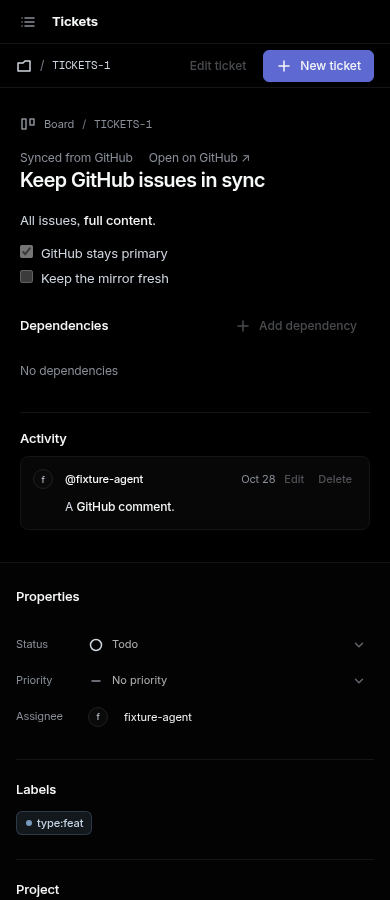
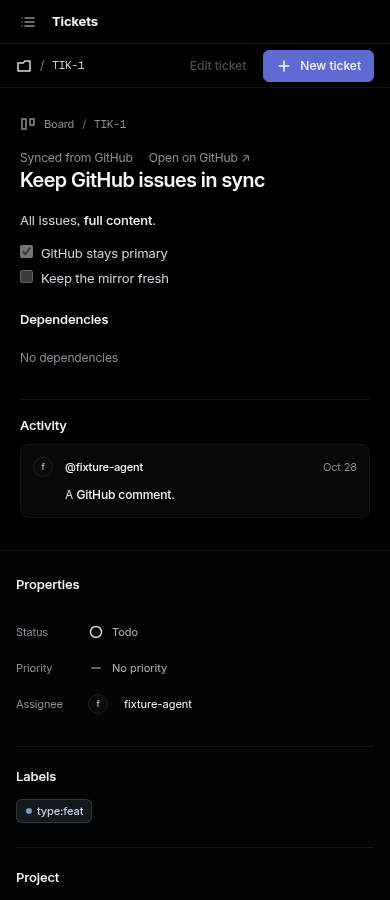
fix(mirror): use existing TIK project key and hide read-only controls

diff --git a/crates/web/style.css b/crates/web/style.css
@@ -472,3 +472,6 @@ time { color: var(--text-muted); font-size: var(--text-xs); }
 .login-page .login-error { display: block; color: var(--danger); min-height: 20px; margin: 0; font-size: var(--text-sm); }
 
 .github-sync { display: flex; flex-wrap: wrap; gap: 8px 16px; font-size: 12px; }
+/* Read-only (mirrored) properties: no chevron or hover affordance. */
+.property select:disabled, .card-status select:disabled { background-image: none; cursor: default; }
+.property select:disabled:hover, .card-status select:disabled:hover { background-color: transparent; }

diff --git a/crates/web/src/pages/api_detail.rs b/crates/web/src/pages/api_detail.rs
@@ -168,7 +168,7 @@ fn DetailPage(id: i64) -> impl IntoView {
             <article class="ticket-detail"><div class="detail-overline"><a href="/" class="back-link"><Icon name="board"/>"Board"</a><span class="breadcrumb-slash">"/"</span><span class="mono">{move||state.ticket.get().map(|t|t.key)}</span></div>
             <Show when=move||state.mirrored()><p class="muted github-sync">"Synced from GitHub"{move||state.ticket.get().and_then(|t|t.external_url).map(|url|view!{<a class="subtle-link" href=url target="_blank" rel="noopener">"Open on GitHub ↗"</a>})}</p></Show>
             <h1>{move||state.ticket.get().map(|t|t.title)}</h1><div class="detail-description">{move||state.ticket.get().map(|t|view!{<Markdown source=t.body/>})}</div>
-            <section class="dependencies" aria-label="Dependencies"><div class="section-heading"><h2>"Dependencies"</h2><button class="button button-ghost" disabled=move||state.mirrored() || state.busy.get() on:click=move|_|dependency.set(true)><Icon name="plus"/>"Add dependency"</button></div>
+            <section class="dependencies" aria-label="Dependencies"><div class="section-heading"><h2>"Dependencies"</h2><Show when=move||!state.mirrored()><button class="button button-ghost" disabled=move||state.mirrored() || state.busy.get() on:click=move|_|dependency.set(true)><Icon name="plus"/>"Add dependency"</button></Show></div>
             {move||state.ticket.get().map(|t|{let empty=t.blocks.is_empty() && t.blocked_by.is_empty();view!{ {empty.then(||view!{<p class="muted dependency-empty">"No dependencies"</p>})}
                 {t.blocked_by.into_iter().map(|related|view!{<DependencyRow related incoming=true/>}).collect_view()}{t.blocks.into_iter().map(|related|view!{<DependencyRow related incoming=false/>}).collect_view()}
             }})}</section>
@@ -206,7 +206,7 @@ fn DependencyRow(related: i64, incoming: bool) -> impl IntoView {
     };
     view! {<div class="dependency-row"><span class="dependency-kind"><Icon name=if incoming{"blocked"}else{"arrow"}/>{if incoming{"Blocked by"}else{"Blocks"}}</span>
     {move||board.tickets.get().into_iter().find(|t|t.id==related).map(|t|view!{<StatusIcon status=t.status/><span class="mono muted">{t.key}</span><a class="dependency-title" href=format!("/ticket?id={related}")>{t.title}</a>{matches!(t.status,Status::Done|Status::Canceled).then(||view!{<span class="resolved">"Resolved"</span>})}})}
-    <button class="icon-button" aria-label=format!("Remove dependency {related}") disabled=move||state.mirrored() || state.busy.get() on:click=move|_|state.write("DELETE",format!("/api/v1/tickets/{from}/dependencies/{to}"),Value::Null,Callback::new(|_|{}))><Icon name="close"/></button></div>}
+    <Show when=move||!state.mirrored()><button class="icon-button" aria-label=format!("Remove dependency {related}") disabled=move||state.mirrored() || state.busy.get() on:click=move|_|state.write("DELETE",format!("/api/v1/tickets/{from}/dependencies/{to}"),Value::Null,Callback::new(|_|{}))><Icon name="close"/></button></Show></div>}
 }
 #[component]
 fn DependencyEditor(close: Callback<()>) -> impl IntoView {
@@ -250,7 +250,7 @@ fn ApiComment(comment: CommentRecord) -> impl IntoView {
     } else {
         comment.body.clone()
     };
-    view! {<div class="comment"><Avatar label=author.clone() initials={author.trim_start_matches('@').chars().take(1).collect::<String>()}/><div class="comment-content"><div class="comment-heading"><strong>{author}</strong><time>{short_date(&comment.created_at)}</time><button class="button button-ghost comment-action" disabled=move||state.mirrored() || state.busy.get() on:click=move|_|editing.set(true)>"Edit"</button><button class="button button-ghost comment-action" disabled=move||state.mirrored() || state.busy.get() on:click=move|_|state.write("DELETE",format!("/api/v1/comments/{id}"),Value::Null,Callback::new(|_|{}))>"Delete"</button></div><Show when=move||editing.get() fallback={let body=display_body.clone();move||view!{<Markdown source=body.clone()/>}}><CommentEditor id=id initial=comment.body.clone() close=Callback::new(move|_|editing.set(false))/></Show></div></div>}
+    view! {<div class="comment"><Avatar label=author.clone() initials={author.trim_start_matches('@').chars().take(1).collect::<String>()}/><div class="comment-content"><div class="comment-heading"><strong>{author}</strong><time>{short_date(&comment.created_at)}</time><Show when=move||!state.mirrored()><button class="button button-ghost comment-action" disabled=move||state.mirrored() || state.busy.get() on:click=move|_|editing.set(true)>"Edit"</button><button class="button button-ghost comment-action" disabled=move||state.mirrored() || state.busy.get() on:click=move|_|state.write("DELETE",format!("/api/v1/comments/{id}"),Value::Null,Callback::new(|_|{}))>"Delete"</button></Show></div><Show when=move||editing.get() fallback={let body=display_body.clone();move||view!{<Markdown source=body.clone()/>}}><CommentEditor id=id initial=comment.body.clone() close=Callback::new(move|_|editing.set(false))/></Show></div></div>}
 }
 #[component]
 fn CommentEditor(

diff --git a/xtask/src/api_smoke.rs b/xtask/src/api_smoke.rs
@@ -203,7 +203,7 @@ fn run_inner_mode(root: &Path, skill: bool, board: bool, _view: &str) -> Result<
     fs::OpenOptions::new().append(true).open(&config)?.write_all(b"\n[[durable_objects.bindings]]\nname='BOARD_ROOMS'\nclass_name='BoardRoom'\n[[migrations]]\ntag='v1-board-room'\nnew_sqlite_classes=['BoardRoom']\n")?;
     #[cfg(not(target_arch = "wasm32"))]
     if let Some(fixture) = &mirror_fixture {
-        fs::OpenOptions::new().append(true).open(&config)?.write_all(format!("\n[vars]\nGITHUB_MIRROR='1436584641=0x63616c/tickets:TICKETS'\nGITHUB_API_BASE_URL='{}'\n",fixture.base).as_bytes())?;
+        fs::OpenOptions::new().append(true).open(&config)?.write_all(format!("\n[vars]\nGITHUB_MIRROR='1436584641=0x63616c/tickets:TIK'\nGITHUB_API_BASE_URL='{}'\n",fixture.base).as_bytes())?;
         fs::OpenOptions::new()
             .append(true)
             .open(dir.join(".dev.vars"))?

diff --git a/xtask/src/mirror_check.rs b/xtask/src/mirror_check.rs
@@ -299,7 +299,7 @@ pub fn check(root: &Path, password: &str, token: &str, fixture: &Fixture) -> Res
     assert_eq!(api.list("/api/v1/tickets")?.len(), 2);
     assert_eq!(api.list("/api/v1/tickets/1/comments")?.len(), 1);
     let github = Api::new(&fixture.base, "fixture".into(), true)?;
-    import(&github, &api, "0x63616c/tickets", "TICKETS", false)?;
+    import(&github, &api, "0x63616c/tickets", "TIK", false)?;
     scheduled()?;
     assert_eq!(api.list("/api/v1/tickets")?.len(), 2);
     assert_eq!(api.list("/api/v1/tickets/1/comments")?.len(), 1);

diff --git a/docs/DEVELOPMENT.md b/docs/DEVELOPMENT.md
@@ -241,7 +241,7 @@ content fresh within seconds and cron repairs missed edits. The coordinator does
 production setup after merge; development and checks use isolated local D1 only.
 
 `GITHUB_MIRROR` is a Worker var in both default and production environments:
-`1436584641=0x63616c/tickets:TICKETS,1433792506=0x63616c/voxelite:QUA`.
+`1436584641=0x63616c/tickets:TIK,1433792506=0x63616c/voxelite:QUA`.
 Each entry maps stable repository ID to external-ID identity and project key.
 Projects are ensured by key; QUA is named Quantum, others use the repository name.
 The quantum rename retains the original voxelite identity and comment markers.
